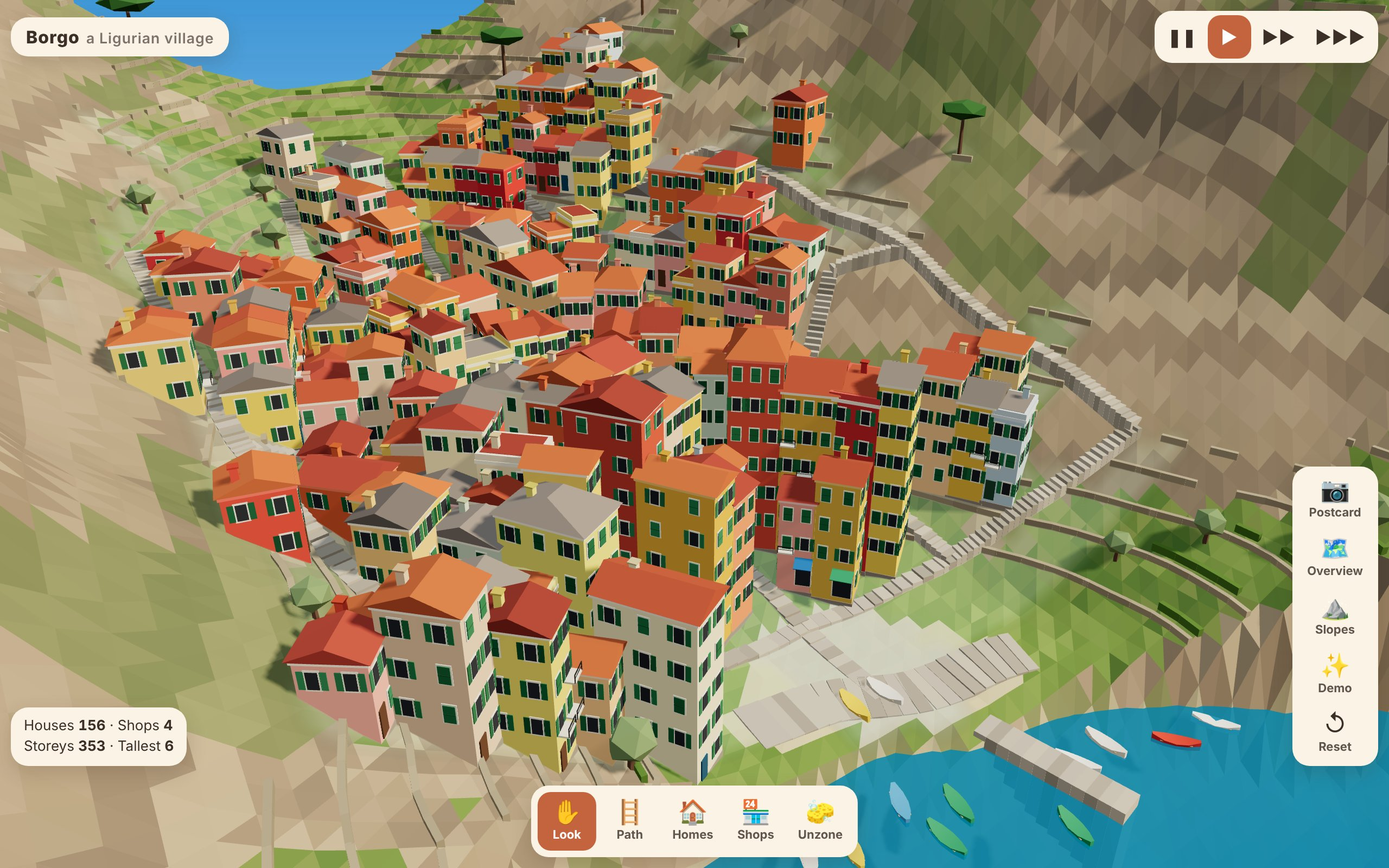
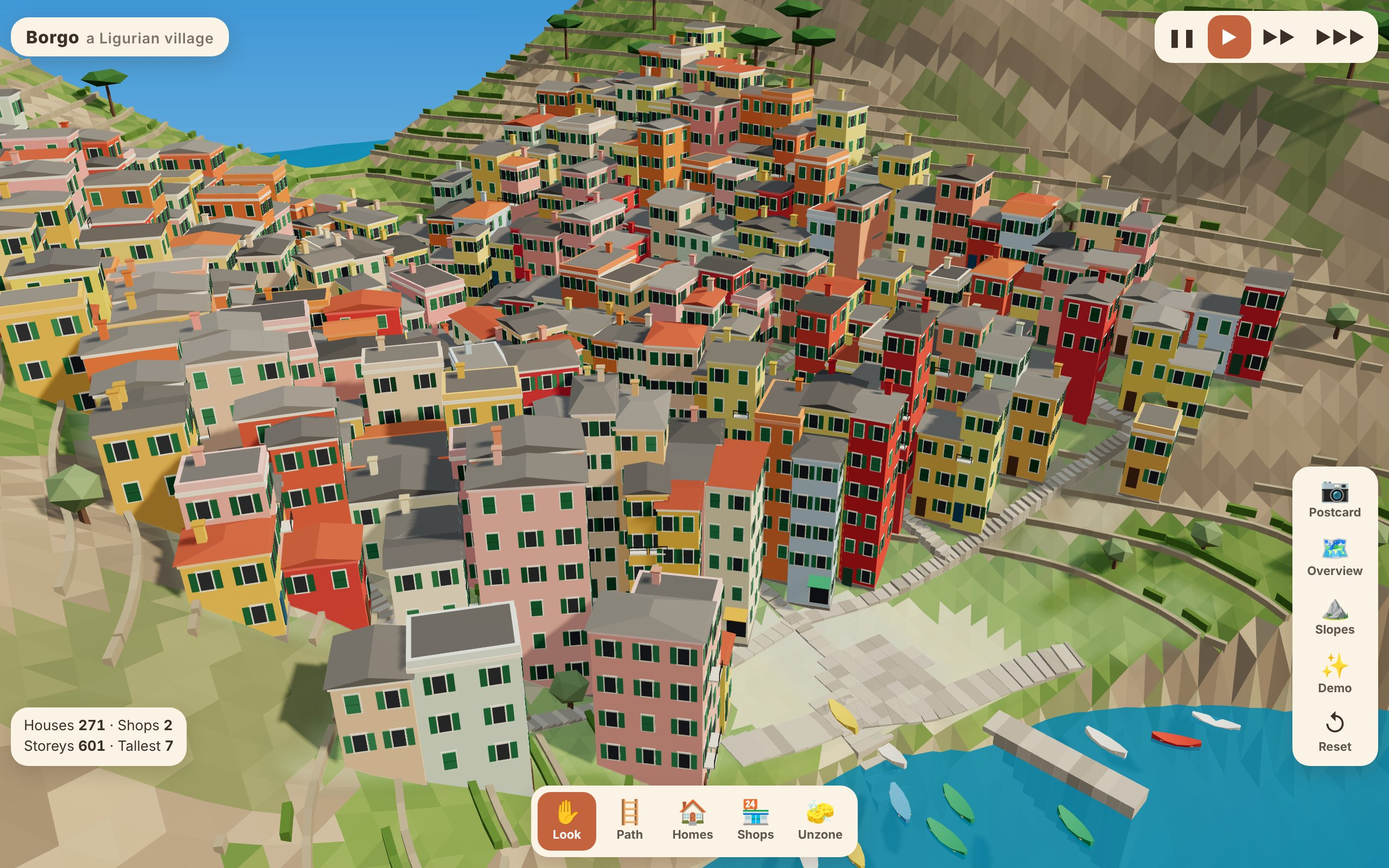
Docs: README for ravine/harbour/archway/roof tuning, refreshed screenshots
Claude-Session: https://claude.ai/code/session_01YJo2smki9udbPpZxNiBNZ5

diff --git a/README.md b/README.md
@@ -86,11 +86,26 @@ New houses mostly **attach** to existing ones:
 - an uphill neighbour sits back-to-back, so the rows step up the slope;
 - if the full-size house doesn't fit, it shrinks to fill the gap.
 
+Sometimes a new house straddles a lane instead: it stands on two piers with the stair or
+passage running underneath (an archway), which helps the rows merge into one mass.
+
+Along the harbour front, footprints are slimmer and houses reach up to 8 storeys. A narrow
+quay walkway, a small piazza and a slipway are always kept open.
+
 A brand-new cluster can only start right beside a connected path. Every candidate must sit
 on zoned, reachable, non-cliff land. The best-scoring one gets built: low walking effort,
 touching many neighbours, plus a little randomness. Meanwhile, houses gain storeys toward
 a target set by how close they are to the harbour (in effort), local density and the
 slope band (steep = small houses only).
+
+The look is tuned mainly through `src/config.js`:
+- `terrain.ravine`: shape of the ravine (floor width, flank slopes, where the cliffs start);
+- `slope`: the slope bands (moderate < 33°, steep < 42°, cliff above);
+- `harbour`: quay, piazza, slipway, the waterfront's slim tall houses;
+- `path`: lane width, clearance, archways;
+- `building`: sizes, storeys, roof pitch.
+
+`docs/progress/` holds before/after screenshots for each tuning step.
 
 The browser console has a few helpers:
 - `game.demo()` lays out the demo village;
